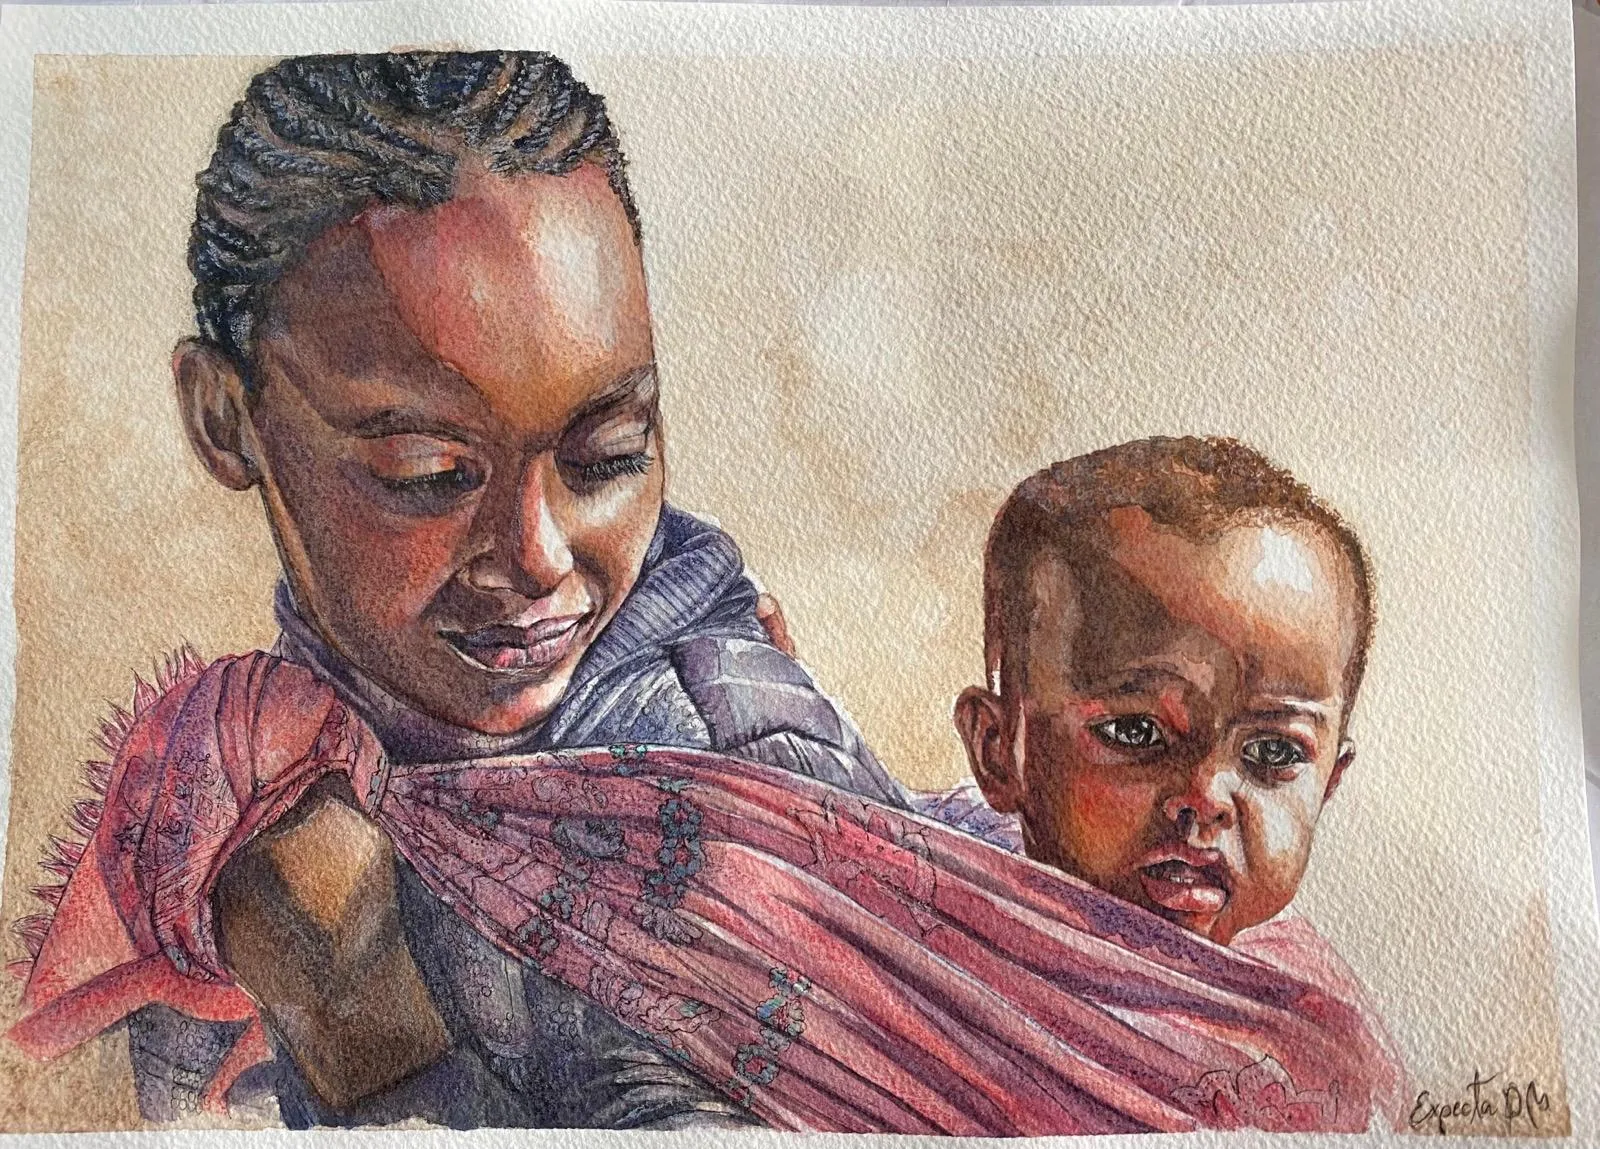
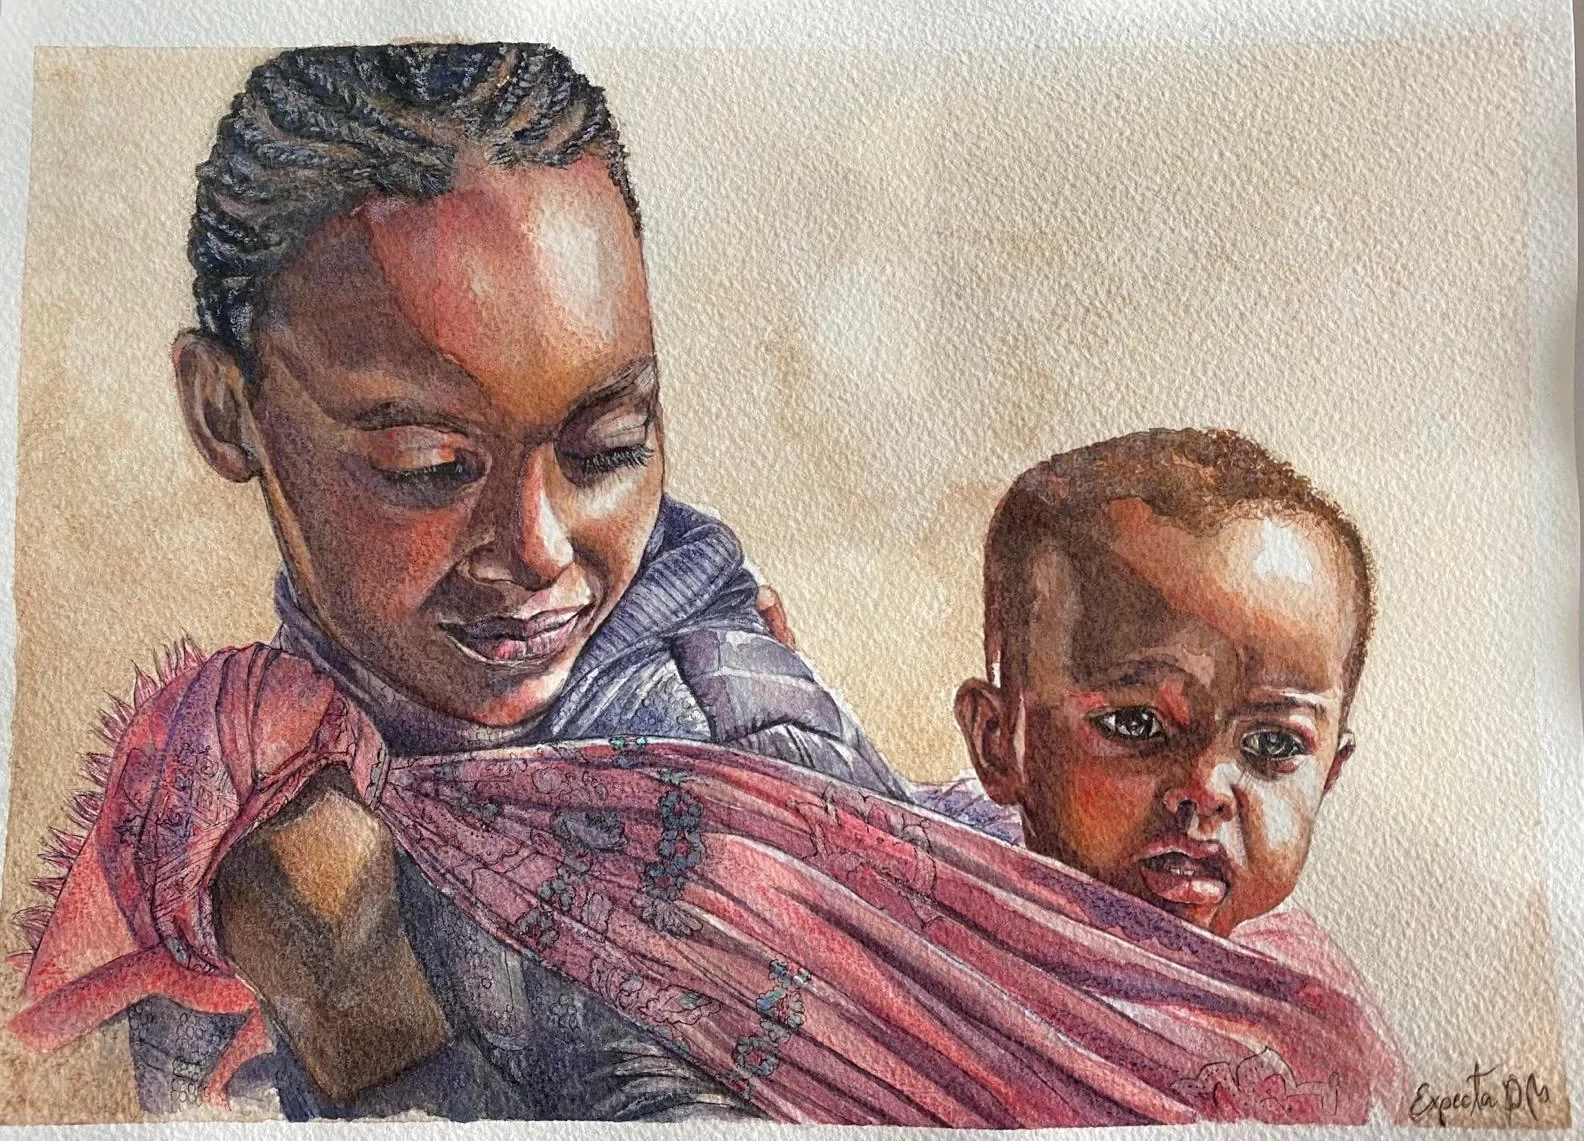
Recorta los bordes de las láminas: sin mesa y con el papel enderezado

diff --git a/js/trabajos.js b/js/trabajos.js
@@ -52,7 +52,7 @@ const trabajos = [
     categoria: "cuadros",
     descripcion: "Acuarela y tinta.",
     imagenes: [
-      { src: "img/cuadros/madre-y-bebe.webp", ancho: 1600, alto: 1149, alt: "Retrato en acuarela y tinta de madre con su bebé" },
+      { src: "img/cuadros/madre-y-bebe.webp", ancho: 1584, alto: 1141, alt: "Retrato en acuarela y tinta de madre con su bebé" },
     ],
   },
   {
@@ -92,7 +92,7 @@ const trabajos = [
     categoria: "cuadros",
     descripcion: "Acuarela y tinta.",
     imagenes: [
-      { src: "img/cuadros/tres-ninos.webp", ancho: 1600, alto: 1151, alt: "Retrato en acuarela y tinta de tres niños" },
+      { src: "img/cuadros/tres-ninos.webp", ancho: 1524, alto: 1111, alt: "Retrato en acuarela y tinta de tres niños" },
     ],
   },
   {
@@ -166,7 +166,7 @@ const trabajos = [
     categoria: "ilustracion",
     descripcion: "Tinta y acuarela.",
     imagenes: [
-      { src: "img/ilustracion/carnero.webp", ancho: 1600, alto: 1301, alt: "Ilustración de carnero en tinta y acuarela" },
+      { src: "img/ilustracion/carnero.webp", ancho: 1447, alto: 1144, alt: "Ilustración de carnero en tinta y acuarela" },
     ],
   },
   {
